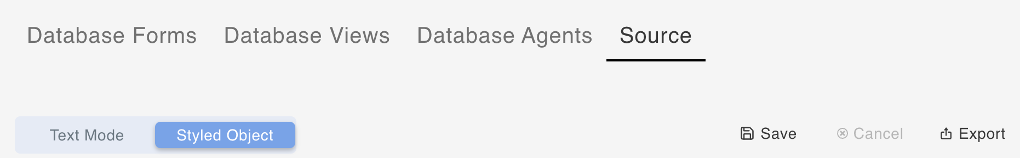
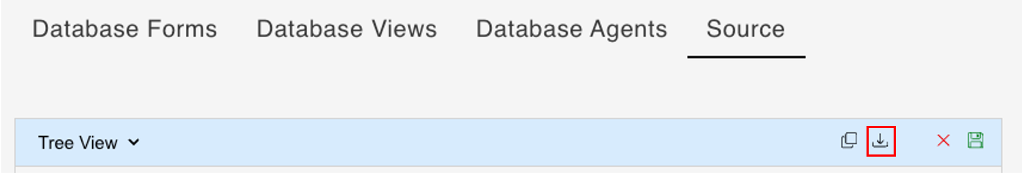
Source Tab updates

Changed region(s): [[0.0, 0.6582, 1.0, 0.9873], [0.0304, 0.1013, 0.7902, 0.3038], [0.5775, 0.3038, 0.7902, 0.4051]]

diff --git a/docs/howto/database/editsourcejson.md b/docs/howto/database/editsourcejson.md
@@ -2,20 +2,46 @@
 
 ## About this task
 
-The procedures guide you in editing the database schema JSON in the **Styled Object** view mode in the **Source** tab under **Schema Management** so you can:
+The procedures guide you in editing the database schema JSON in the **Tree View** mode in the **Source** tab under **Schema Management** so you can:
 
 - add a new JSON object to the database schema
 - add a JSON object to an existing JSON object
-- update the value and value type of a JSON object
+- edit the value and data type of JSON object
 - delete a JSON object from the database schema
+- duplicate a JSON object
 
 ## Prerequisite
 
 - You have selected a schema on the **Schema Management** page.
-- You have selected **Source** from the menu bar and is in the **Styled Object** view mode.  
+- You have selected **Source** from the menu bar and is in the **Tree View** mode.  
 
 ## Procedures
 
+### To add a JSON object to the database schema
+
+1. Hover over any JSON object and then click the down arrow icon to open the context menu.
+
+    ![Source tab context menu](../../assets/images/SrcCntxtMenu.png)
+
+    !!! tip
+        You can also right-click in the value of the JSON object to open the context menu. This option isn't applicable for JSON objects whose data type is *Object* or *Array*. 
+
+2. Select **Add**. 
+
+3. Enter a **Key**, select a **Type**, and then enter a **Value**.
+
+    ![Insert Object](../../assets/images/insertjsonobject1.png)
+ 
+    !!!tip
+        The available value **Types** are *String*, *Boolean*, *Number*, *Array*, and *Object*.
+
+3. Click **Insert**. The added JSON object is placed at the end of the list. 
+
+4. Click the **Save** icon to save the changes. 
+
+    ![Save icon in the Source tab](../../assets/images/SrcSaveIcn.png)
+
+<!--
 ### To add a JSON object to the database schema
 
 1. Click **Insert Object**.
@@ -30,15 +56,27 @@ The procedures guide you in editing the database schema JSON in the **Styled Obj
         The available value **Types** are string, number, Boolean, null, object, and array.
 
 3. Click **Update**, and then click **Save**. 
+-->
 
 ### To add a JSON object to an existing JSON object
 
 !!!note
-    You can only add a new JSON object to existing JSON object whose type is either an *object* or an *array*. 
+    You can only add a new JSON object to existing JSON object whose data type is either an *Object* or an *Array*. 
 
-**For a JSON object whose type is *object***
+1. Hover over the object you want to add a new object to and then click the down arrow icon to open the context menu.
 
-1.	Hover over the object you want to add a new object to, and then click **Add**.
+2. Select **Add**. 
+
+3. Enter a **Key**, select a **Type**, and then enter a **Value**.
+
+4. Click **Insert**. The added JSON object is placed at the end of the list of JSON objects. 
+
+4. Click the **Save** icon to save the changes.
+
+<!--
+**For a JSON object whose data type is *Object***
+
+1.	Hover over the object you want to add a new object to  and then click **Add**.
 
     ![Insert Object](../../assets/images/insertjsonobject2.png)
 
@@ -54,6 +92,27 @@ The procedures guide you in editing the database schema JSON in the **Styled Obj
 2.	Select a **Type**, and then enter a **Value**.
 3.	Click **Update**, and then click **Save**. 
 
+-->
+
+### To update a JSON object
+
+!!!note
+    You can only update JSON objects whose data type isn't *Object* or *Array*.
+
+1. Hover over any JSON object and then click the down arrow icon to open the context menu.
+
+    !!! tip
+        You can also right-click in the value of the JSON object to open the context menu.
+
+2. Select **Edit**. 
+
+3. Update the **Key**, **Type**, and **Value** as required.
+
+3. Click **Insert**. The added JSON object is placed at the end of the list. 
+
+4. Click the **Save** icon to save the changes.
+
+<!--
 ### To update the type and value of a JSON object
 
 !!!note
@@ -71,8 +130,17 @@ The procedures guide you in editing the database schema JSON in the **Styled Obj
         If you only need to update the **Value**, then just enter the new value.
 
 3.	Click **Update**, and then click **Save**. 
+-->
 
+### To delete a JSON object from the database schema
 
+1. Hover over the JSON object that you want to delete and then click the down arrow icon to open the context menu.   
+
+2. Select **Remove**. 
+
+3. Click the **Save** icon to save the changes.
+
+<!--
 ### To delete a JSON object from the database schema
 
 - Click the object to be deleted, click **Delete**, and then click **Save**.
@@ -80,3 +148,15 @@ The procedures guide you in editing the database schema JSON in the **Styled Obj
     Or
 
     Hover over the object to be deleted, click **Delete**, and then click **Save**.
+-->
+
+### To duplicate a JSON object
+
+!!!note
+    You can only duplicate JSON objects whose data type is either an *Object* or an *Array*.
+
+1. Hover over any JSON object and then click the down arrow icon to open the context menu.
+
+2. Select **Duplicate**. The duplicated JSON object is placed at the end of the list.
+
+3. Click the **Save** icon to save the changes.

diff --git a/docs/howto/database/exportsourcejson.md b/docs/howto/database/exportsourcejson.md
@@ -2,7 +2,7 @@
 
 ## About this task
 
-The procedure guides you on exporting the database schema in JSON format from the **Source** tab on the **Schema Management** page, so you can share the database schema across databases.
+The procedure guides you on exporting the database schema in JSON format from the **Source** tab on the **Schema Management** page so that you can share the database schema across databases.
 
 ## Prerequisite
 
@@ -10,18 +10,39 @@ The procedure guides you on exporting the database schema in JSON format from th
 
 ## Procedure
 
-- Go to the **Source** tab, and then click **Export**.
+### To download a JSON file
 
-=== "From Text Mode view mode"
+1. Go to the **Source** tab, and then click the **Download** icon.
+
+=== "From Text View"
 
     ![Export Source](../../assets/images/exportjson.png)
 
 
-=== "From Styled Object view mode"
+=== "From Tree View"
 
     ![Export Source](../../assets/images/exportjson1.png)
 
-A JSON file containing the Source text is downloaded to your default download location. 
+2. In the dialog indicating that the schema has been downloaded as `schema.json`, click **OK**.
+
+The JSON file with `schema.json` filename and containing the source text is downloaded to your default download location. 
+
+### To create a JSON file
+
+1. Go to the **Source** tab, and then click the **Copy** icon. 
+
+    === "From Text View"
+
+        ![Export Source](../../assets/images/exportjson2.png)
+
+
+    === "From Tree View"
+
+        ![Export Source](../../assets/images/exportjson3.png)
+
+2. In the dialog indicating that the schema has been copied to the clipboard, click **OK**.
+3. Create a JSON file using a text editor, and then paste the copied database schema.
+4. Save the JSON file.   
 
 !!!tip
     For information on importing a schema, see [Import a schema](../../references/usingwebui/schemaui.md#import-a-schema).

diff --git a/docs/references/usingwebui/schemaui.md b/docs/references/usingwebui/schemaui.md
@@ -272,17 +272,17 @@ See [Edit a database view of a schema](../../howto/database/editviewcolumn.md) f
 
 ## View Source
 
-The Source tab allows you to view the database schema details in JSON format. 
+The **Source** tab allows you to view the database schema details in JSON format. 
 
 1. Select a schema from the list of schemas to load the schema details.
 2. Select **Source** from the menu bar to show the details for the selected schema in the following view mode:
       
-      - **Text Mode** - shows the text view of the details of the selected schema in JSON format
-      - **Styled Object** - shows the collapsible view of the details of the selected schema in JSON format 
+      - **Text View** - shows the text view of the details of the selected schema in JSON format
+      - **Tree View** - shows the collapsible view of the details of the selected schema in JSON format 
 
 
 !!!note
-      - The database schema JSON details are editable in the **Styled Object** view mode. For more information, see [Edit database schema JSON](../../howto/database/editsourcejson.md).
+      - The database schema JSON details are editable in the **Tree View** mode. For more information, see [Edit database schema JSON](../../howto/database/editsourcejson.md).
       
       - To export the schema in a .json file, see [Export schema as JSON file](../../howto/database/exportsourcejson.md).
 
